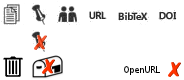
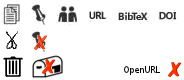
action pix

Changed region(s): [[0.0272, 0.45, 0.1087, 0.625], [0.0272, 0.375, 0.0543, 0.45], [0.0815, 0.4, 0.1087, 0.45]]

diff --git a/bibsonomy-webapp/src/main/webapp/resources/css/style.css b/bibsonomy-webapp/src/main/webapp/resources/css/style.css
@@ -678,7 +678,7 @@ ul.news {
 }
 
 .post .action .unpick{
-    background-position: -30px 30px;
+    background-position: -30px -27px;
     width: 23px
 }
 
@@ -688,7 +688,7 @@ ul.news {
 }
 
 .post .action .edit{
-    background-position: 0px 0px;
+    background-position: 0px -25px;
     width: 26px
 }
 	
@@ -703,7 +703,8 @@ ul.news {
 }
 
 .post .action .remove{
-    background-position: 0px -52px;
+    background-position: -30px -53px;
+    width: 35px
 }
 
 .post .action .url{
@@ -722,7 +723,8 @@ ul.news {
 }
 
 .post .action .openUrl{
-    background-position: -205px 0px;
+    background-position: 64px -55px;
+    width: 41px
 }
 
 .post .rating {
